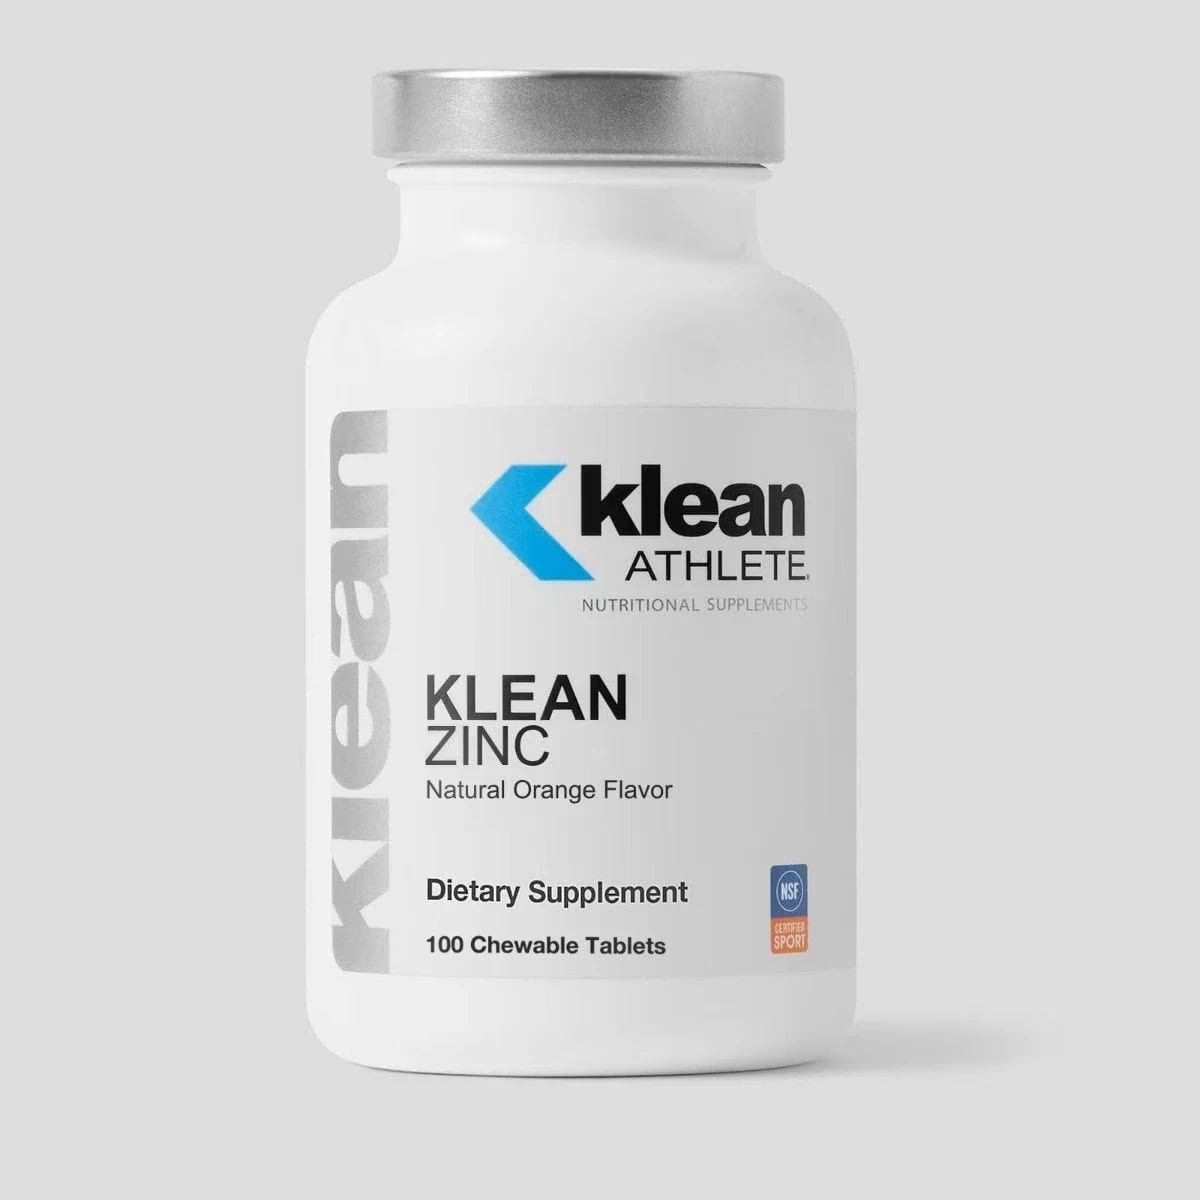
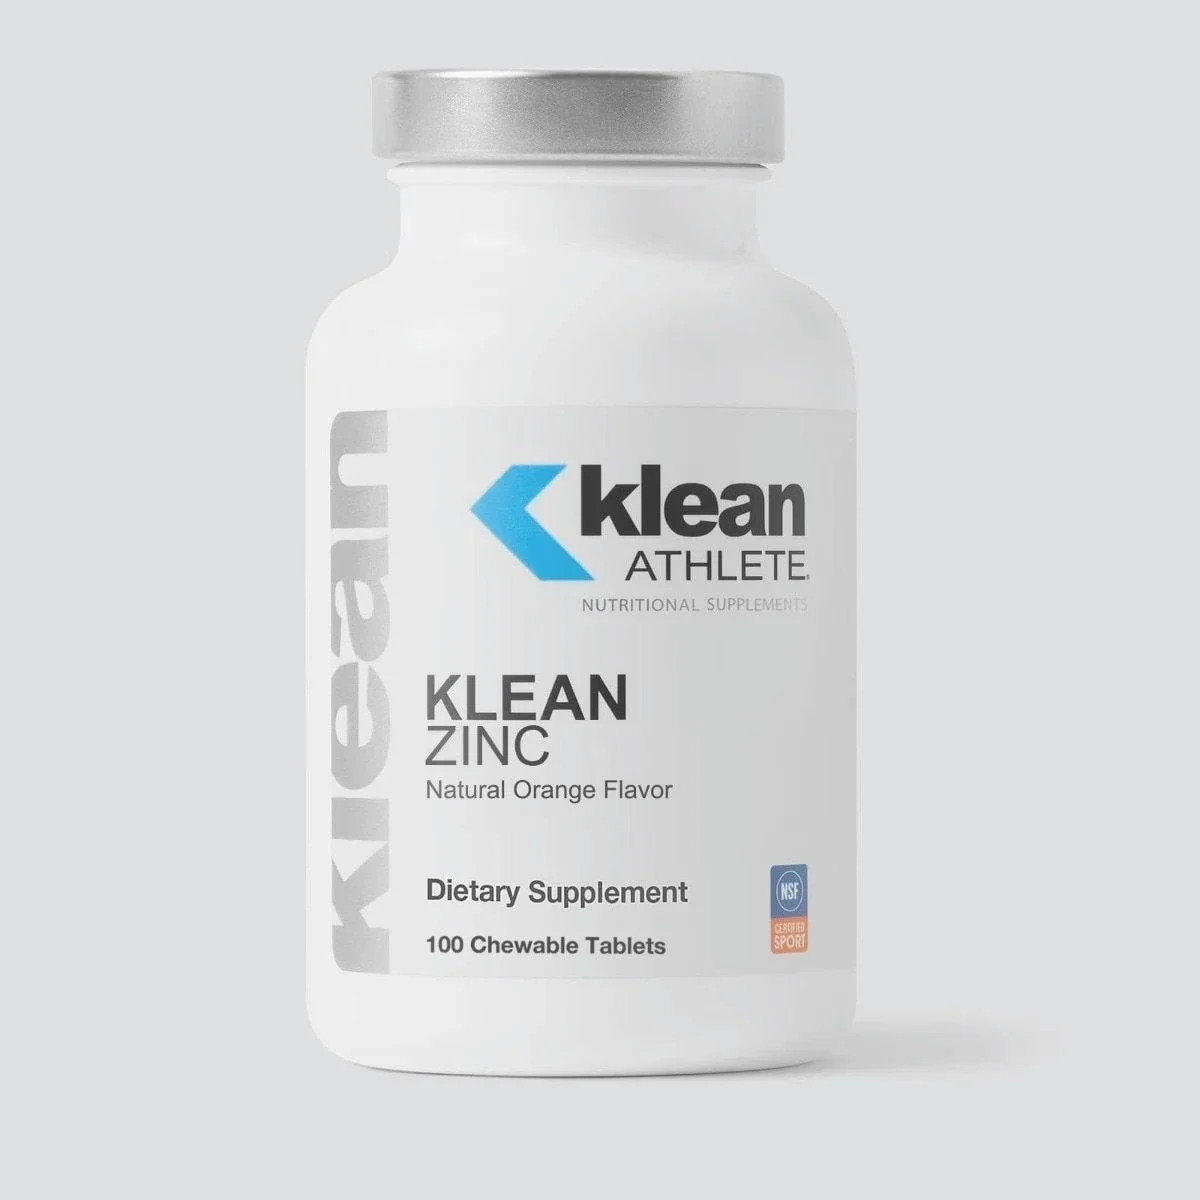
docs: rehace evidencia fotografica lotes 1 y 2

diff --git a/docs/fotos/lote-3/README.md b/docs/fotos/lote-3/README.md
@@ -4,6 +4,8 @@
 
 - Maestro cubierto: filas 121–180 de `docs/fotos/suplementos.csv` (60 SKU).
 - Entrega: 44 fotografías WebP reales y 16 faltantes explícitos.
+- Corrección de revisión: los ocho productos Klean del rango `INV-1116`–`INV-1124` se presentan sobre gris claro para que el envase blanco conserve contraste; seis archivos recibieron el ajuste solicitado y los otros dos ya eran grises.
+- Corrección de revisión: `1693` y `1694` se normalizaron a `INV-1693` e `INV-1694` tanto en archivo como en manifiesto.
 - Ninguna imagen se subió a la tienda. Son candidatas internas sujetas a auditoría de Dot/Claude y aprobación de Marcos antes de cualquier uso.
 
 ## Criterio de aceptación

diff --git a/docs/fotos/lote-2/README.md b/docs/fotos/lote-2/README.md
@@ -1,0 +1,11 @@
+# Evidencia fotográfica · lote 2
+
+- Filas: 61–120 (60 productos).
+- Fotografías aceptadas: 40.
+- Faltantes explícitos: 20.
+- Criterio: producto y presentación exactos, vista frontal limpia y archivo decodificado con dimensiones originales mínimas de 800 × 800 px.
+- Las URLs y dimensiones se comprobaron el 17-nov-2026.
+- Derechos: **no comprobados**. Una fuente pública o activa no concede permiso de reutilización.
+- Estado: candidatas para revisión de Claude nube y aprobación de Marcos o Dot; no se han subido a la tienda.
+
+La hoja `contacto.png` incluye las 60 posiciones; las casillas rojas son faltantes y no imágenes inventadas.

diff --git a/docs/fotos/lote-1/README.md b/docs/fotos/lote-1/README.md
@@ -1,0 +1,11 @@
+# Evidencia fotográfica · lote 1
+
+- Filas: 1–60 (60 productos).
+- Fotografías aceptadas: 42.
+- Faltantes explícitos: 18.
+- Criterio: producto y presentación exactos, vista frontal limpia y archivo decodificado con dimensiones originales mínimas de 800 × 800 px.
+- Las URLs y dimensiones se comprobaron el 17-nov-2026.
+- Derechos: **no comprobados**. Una fuente pública o activa no concede permiso de reutilización.
+- Estado: candidatas para revisión de Claude nube y aprobación de Marcos o Dot; no se han subido a la tienda.
+
+La hoja `contacto.png` incluye las 60 posiciones; las casillas rojas son faltantes y no imágenes inventadas.
